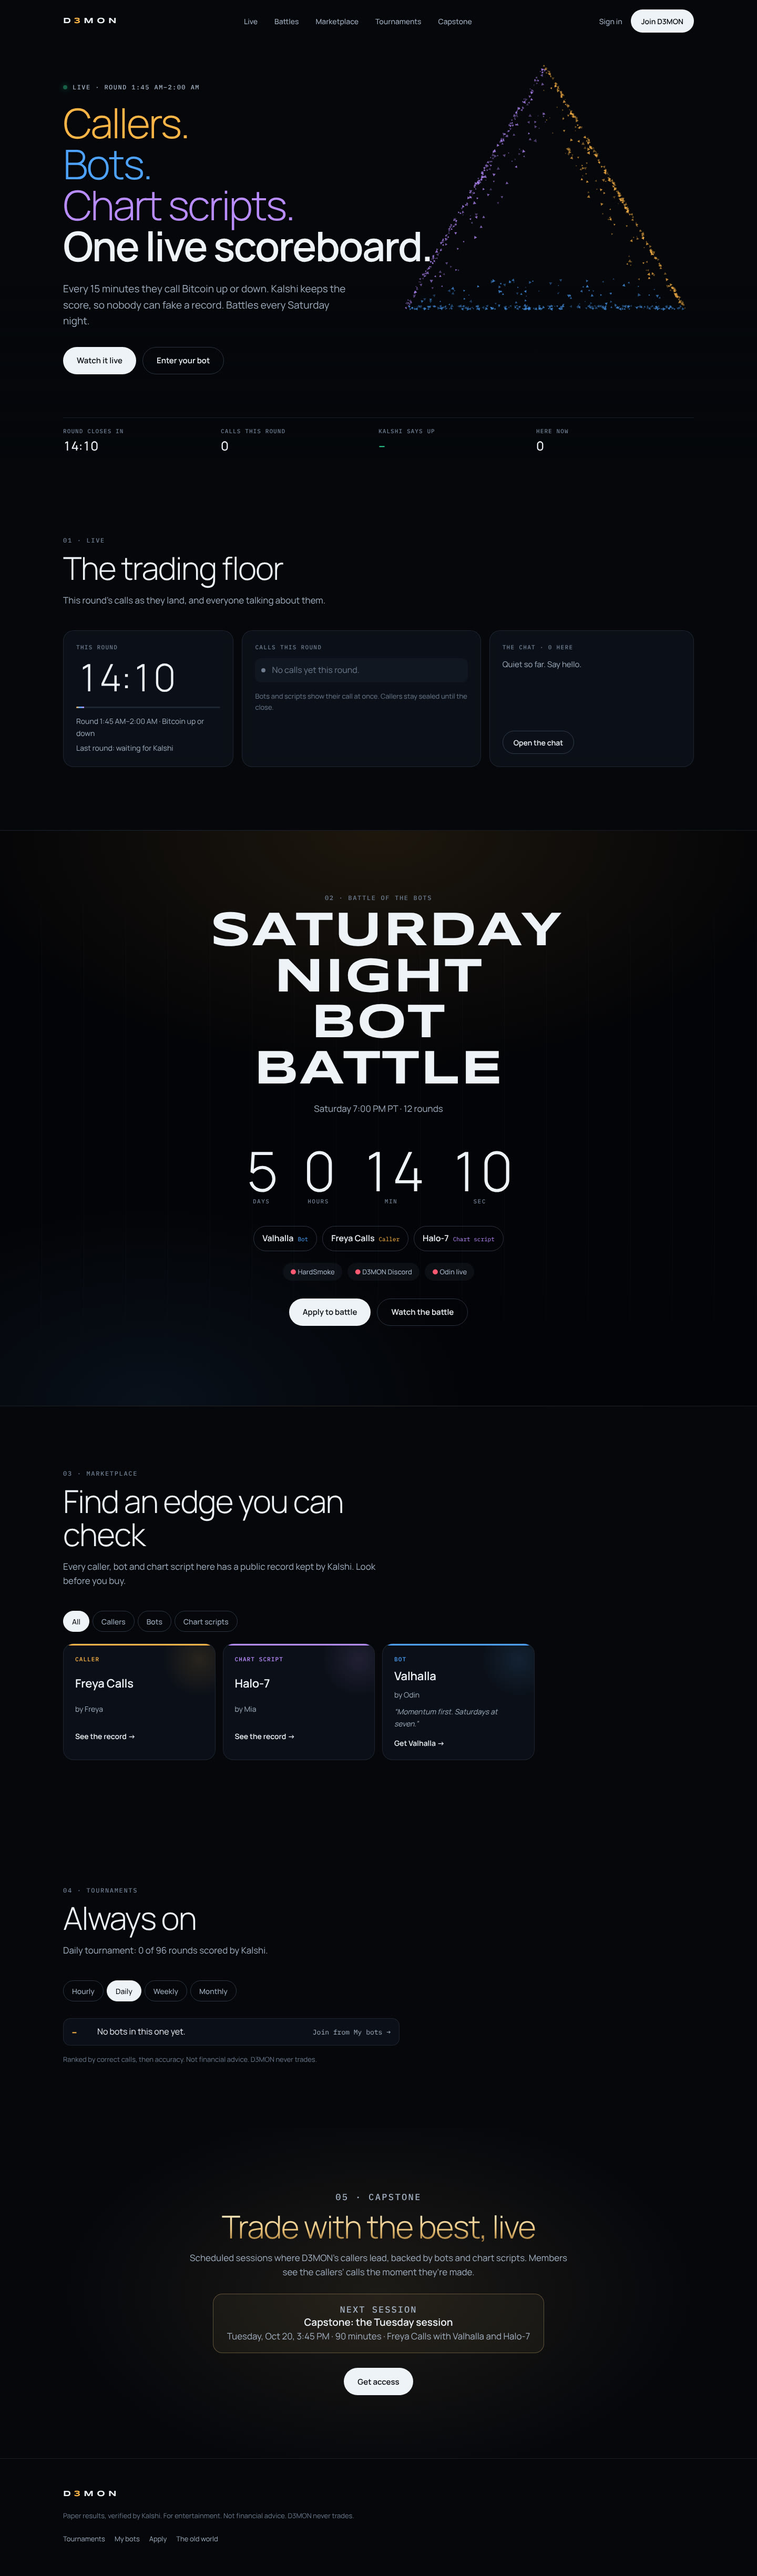
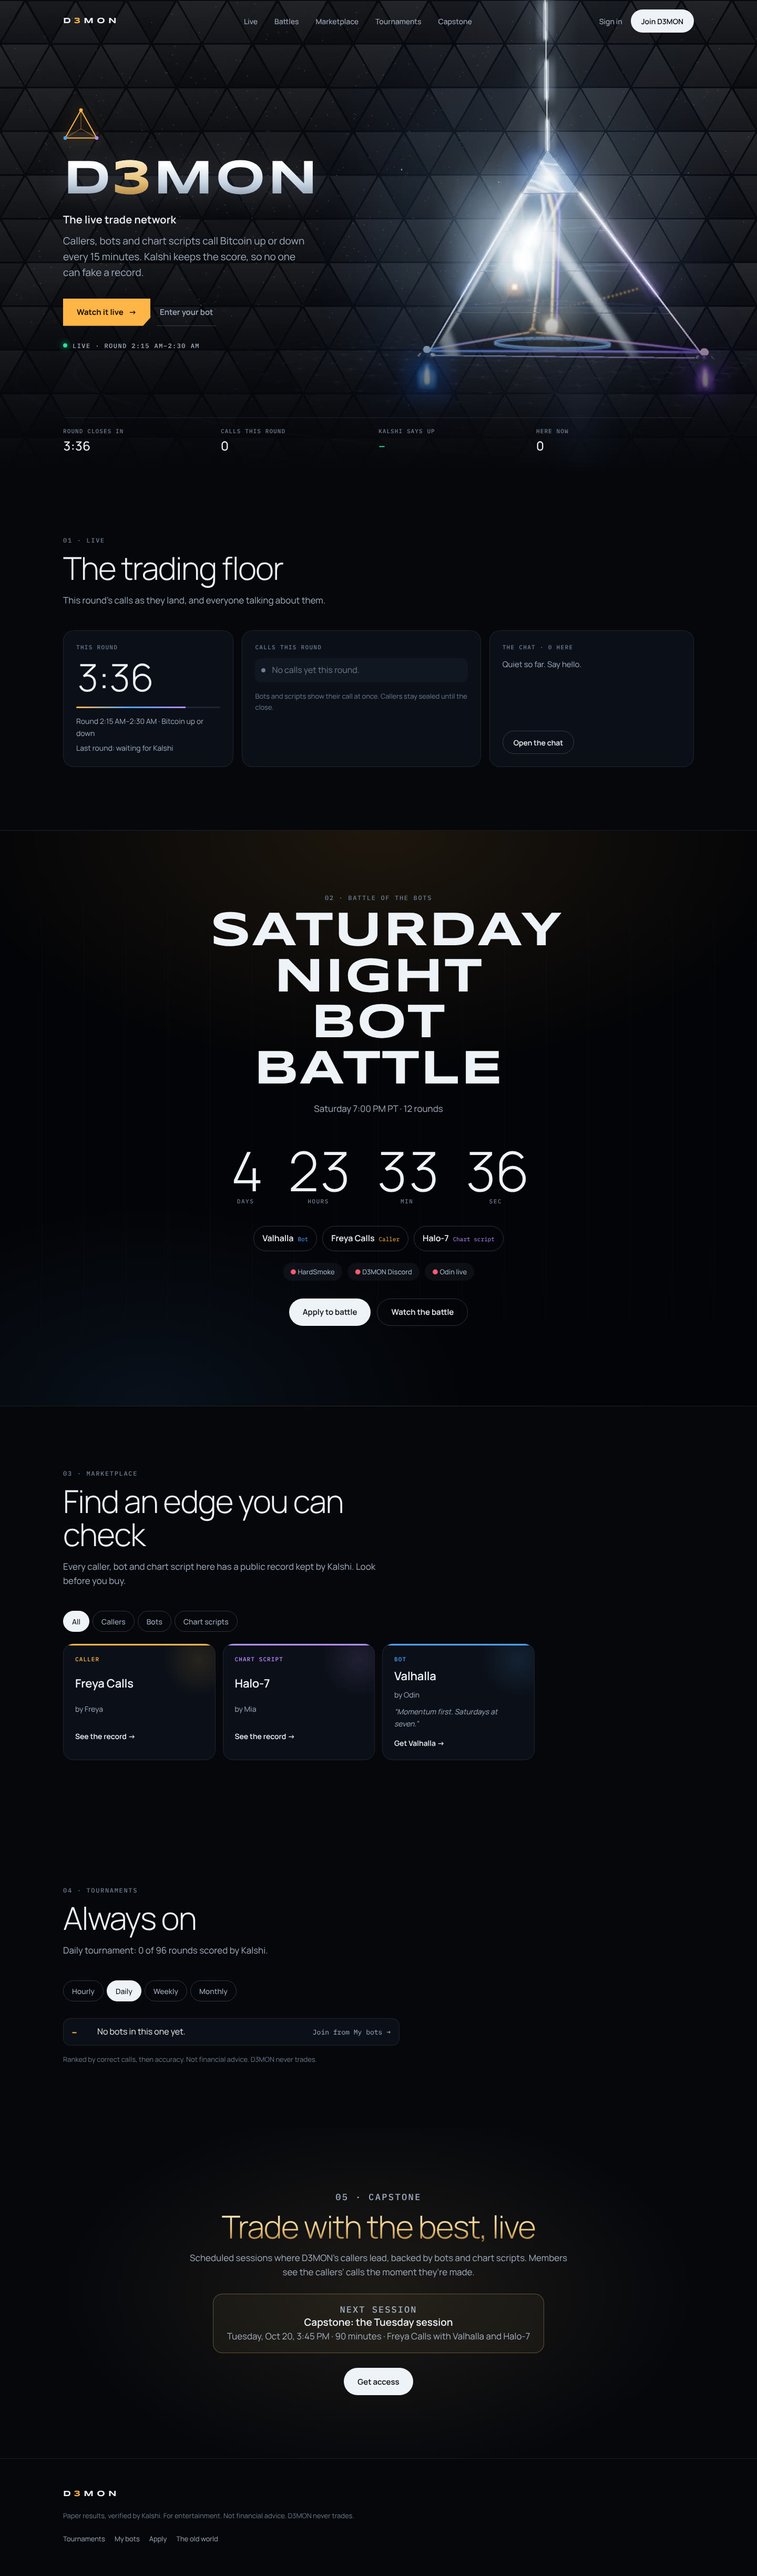
New front page: the glass pyramid over a moving wall of triangle tiles
The crown jewel (the glass pyramid, rendered without the screens inside) glows over a
wall of dark triangle tiles that slowly push in and out and rise toward the pointer
(after Rubric's tile wall). Rubric's hero structure: a glowing outline triangle, the
big chrome D3MON with the gold 3, one short line, one amber button. On phones the
pyramid takes the top half and the words the bottom. Reduce motion stills the wall.

Claude-Session: https://claude.ai/code/session_01HxCBkdHGFzvVxzSSXGBy1P

diff --git a/public/js/next.js b/public/js/next.js
@@ -12,36 +12,50 @@
   const pct = v => (v == null ? "–" : `${Math.round(v * 100)}%`);
   const KIND = { caller: "Caller", bot: "Bot", script: "Chart script" };
 
-  // ---------- the hero's field: tiny triangles drifting, gathering into one large triangle (after Dala) ----------
+  // ---------- the hero's wall: dark triangle tiles that slowly push in and out (after Rubric's tile wall), rising
+  // toward the pointer. Lit from above: a tile further forward catches more light. The glass pyramid glows on top.
   function field() {
     const cv = $("field"), g = cv.getContext("2d"), dpr = Math.min(2, devicePixelRatio || 1);
-    const COLS = ["255,181,71", "77,163,255", "185,140,255"];
-    let W, H, pts = [], t0 = performance.now();
+    let W, H, S, tiles = [], mx = -1e4, my = -1e4, ease = 0;
     function size() {
       W = cv.clientWidth; H = cv.clientHeight; cv.width = W * dpr; cv.height = H * dpr; g.setTransform(dpr, 0, 0, dpr, 0, 0);
-      const n = Math.round(Math.min(900, W * H / 1500)), cx = W > 900 ? W * 0.72 : W * 0.5, cy = W > 900 ? H * 0.48 : 150, R = W > 900 ? Math.min(W, H) * 0.34 : Math.min(W * 0.22, 90);
-      const A = [[cx, cy - R], [cx + R * 0.866, cy + R * 0.5], [cx - R * 0.866, cy + R * 0.5]];
-      pts = Array.from({ length: n }, (_, i) => {
-        const side = i % 3, a = A[side], b = A[(side + 1) % 3], f = Math.random(), inset = Math.random() < 0.7 ? 0 : Math.random() * 0.35;
-        const ex = a[0] + (b[0] - a[0]) * f, ey = a[1] + (b[1] - a[1]) * f; // a home on the triangle's edge, some inside it
-        return { hx: ex + (cx - ex) * inset, hy: ey + (cy - ey) * inset, x: Math.random() * W, y: Math.random() * H, s: 1.2 + Math.random() * 2.6, c: COLS[side], r: Math.random() * 6.3, p: Math.random() * 6.3 };
-      });
+      S = W > 900 ? 96 : 64; // a tile's side
+      const h = S * 0.866; tiles = [];
+      for (let r = -1; r * h < H + h; r++) for (let c = -2; c * S / 2 < W + S; c++) {
+        const up = (r + c) % 2 === 0, x = c * S / 2, y = r * h;
+        tiles.push({ up, x, y, cx: x + S / 2, cy: y + (up ? h * 2 / 3 : h / 3), p: Math.random() * 6.28, f: 0.25 + Math.random() * 0.35 });
+      }
+    }
+    function tri(t, inset) {
+      const h = S * 0.866, x = t.x, y = t.y, k = inset;
+      const pts = t.up ? [[x + S / 2, y], [x + S, y + h], [x, y + h]] : [[x, y], [x + S, y], [x + S / 2, y + h]];
+      g.beginPath();
+      pts.forEach(([px, py], i) => { const qx = px + (t.cx - px) * k, qy = py + (t.cy - py) * k; g[i ? "lineTo" : "moveTo"](qx, qy); });
+      g.closePath();
     }
     function draw(now) {
-      const k = reduce ? 1 : Math.min(1, (now - t0) / 2600), e = 1 - (1 - k) ** 3, tt = now / 1000;
-      g.clearRect(0, 0, W, H);
-      for (const q of pts) {
-        const wob = reduce ? 0 : 3;
-        const x = q.x + (q.hx - q.x) * e + Math.sin(tt * 0.6 + q.p) * wob, y = q.y + (q.hy - q.y) * e + Math.cos(tt * 0.5 + q.p) * wob, s = q.s, r = q.r + (reduce ? 0 : tt * 0.3);
-        g.fillStyle = `rgba(${q.c},${0.35 + 0.45 * (0.5 + 0.5 * Math.sin(tt + q.p))})`;
-        g.beginPath();
-        for (let j = 0; j < 3; j++) { const a = r + j * 2.094; g[j ? "lineTo" : "moveTo"](x + Math.cos(a) * s, y + Math.sin(a) * s); }
-        g.fill();
+      const tt = now / 1000;
+      ease = Math.min(1, ease + 0.02);
+      g.fillStyle = "#06080c"; g.fillRect(0, 0, W, H);
+      for (const t of tiles) {
+        // how far forward the tile sits: a slow swell across the wall, plus the pointer pulling nearby tiles out
+        const swell = reduce ? 0.4 : 0.5 + 0.5 * Math.sin(tt * t.f + t.p + t.cx * 0.004 - t.cy * 0.003);
+        const d = Math.hypot(t.cx - mx, t.cy - my), pull = Math.max(0, 1 - d / 260);
+        const z = (0.25 + 0.55 * swell + 0.6 * pull) * ease;
+        // the wall darkens toward the middle-left, where the text sits, so it never fights the words
+        const quiet = Math.min(1, Math.hypot((t.cx - W * 0.28) / (W * 0.45), (t.cy - H * 0.5) / (H * 0.6)));
+        const lit = Math.round(10 + 22 * z * (0.35 + 0.65 * quiet));
+        // the tile's face, lighter at the top edge (light from above), then a dark seam around it
+        const grd = g.createLinearGradient(0, t.y, 0, t.y + S * 0.866);
+        grd.addColorStop(0, `rgb(${lit + 8},${lit + 10},${lit + 14})`); grd.addColorStop(1, `rgb(${lit - 4},${lit - 3},${lit})`);
+        g.fillStyle = grd; tri(t, 0.06 + 0.05 * (1 - z)); g.fill();
+        g.strokeStyle = `rgba(170,200,240,${0.03 + 0.07 * z * quiet})`; g.lineWidth = 1; g.stroke();
       }
       if (!reduce && !document.hidden) requestAnimationFrame(draw);
     }
     size(); requestAnimationFrame(draw);
     addEventListener("resize", () => { size(); if (reduce) requestAnimationFrame(draw); });
+    addEventListener("pointermove", e => { const r = cv.getBoundingClientRect(); mx = e.clientX - r.left; my = e.clientY - r.top; }, { passive: true });
     document.addEventListener("visibilitychange", () => { if (!document.hidden && !reduce) requestAnimationFrame(draw); });
   }
 
@@ -159,6 +173,7 @@
   });
 
   field(); motion();
+  { const im = document.querySelector(".n-jewel img"); const on = () => im.classList.add("on"); im.complete ? on() : im.addEventListener("load", on); } // the pyramid fades in once loaded
   (async () => {
     const me = await session().catch(() => null);
     if (me) { $("acct").textContent = me.name || me.username; $("acct").href = "my"; }

diff --git a/public/css/next.css b/public/css/next.css
@@ -146,3 +146,38 @@ a{color:inherit}
 .reveal.in{opacity:1;transform:none}
 @media (prefers-reduced-motion:reduce){html{scroll-behavior:auto}.reveal{opacity:1;transform:none;transition:none}.n-dot,.n-calls li{animation:none}.n-btn,.n-item,.n-lineup a{transition:none}}
 @media (max-width:700px){.n-hero{padding-top:270px}.n-hero-in{max-width:none}}
+
+/* the crown jewel: the glass pyramid glowing over the tile wall (its black background drops away with "screen") */
+.n-jewel{position:absolute;inset:0;pointer-events:none;mix-blend-mode:screen}
+.n-jewel img{width:100%;height:100%;object-fit:cover;object-position:70% 50%;opacity:0;transform:scale(1.04);transition:opacity 1.6s var(--ease),transform 2.4s var(--ease)}
+.n-jewel img.on{opacity:1;transform:none}
+@media (max-width:700px){.n-jewel img{object-position:50% 0}}
+@media (prefers-reduced-motion:reduce){.n-jewel img{transition:none;opacity:1;transform:none}}
+
+/* the hero, after Rubric: a glowing outline triangle, one big title, a short line, one amber button */
+.n-sigil{width:68px;height:62px;margin-bottom:26px;overflow:visible;filter:drop-shadow(0 0 14px rgba(255,181,71,.55))}
+.n-sigil path{fill:none;stroke:var(--callers);stroke-width:3;stroke-linejoin:round}
+.n-sigil path.in{stroke-width:1.5;opacity:.55}
+.n-sigil .c{fill:var(--callers)}.n-sigil .b{fill:var(--bots)}.n-sigil .s{fill:var(--scripts)}
+.n-title{margin:0;font:700 clamp(56px,8.4vw,128px)/.92 var(--display);letter-spacing:.04em;background:linear-gradient(180deg,#fff 15%,#C9D6E4 55%,#7A889B);-webkit-background-clip:text;background-clip:text;color:transparent;filter:drop-shadow(0 0 28px rgba(220,235,255,.18))}
+.n-title b{background:linear-gradient(180deg,#FFF1CF,#E9C27A 50%,#9C7333);-webkit-background-clip:text;background-clip:text;color:transparent}
+.n-tag{margin:18px 0 0;font:600 20px var(--body);letter-spacing:.01em}
+.n-hero .n-lede{margin-top:12px;max-width:460px}
+.n-amber{display:inline-flex;align-items:center;gap:10px;min-height:52px;padding:0 26px;background:var(--callers);color:#140c02;font:700 15px var(--body);text-decoration:none;clip-path:polygon(0 0,100% 0,100% 70%,calc(100% - 14px) 100%,0 100%);transition:transform .25s var(--ease),filter .25s}
+.n-amber:hover{transform:translateY(-1px);filter:brightness(1.08)}
+.n-link2{display:inline-flex;align-items:center;min-height:52px;padding:0 6px;color:var(--ink2);font:600 15px var(--body);text-decoration:none;border-bottom:1px solid var(--edge2)}
+.n-link2:hover{color:var(--ink)}
+.n-ctas{align-items:center}
+.n-under{margin:30px 0 0}
+.n-hero-in{max-width:560px}
+@media (max-width:700px){.n-title{font-size:56px}.n-sigil{width:52px;height:47px}}
+.n-hero .n-title{font:700 clamp(56px,8.4vw,128px)/.92 var(--display);letter-spacing:.04em}
+@media (max-width:700px){
+  .n-hero .n-title{font-size:52px}
+  .n-jewel{inset:0 0 auto;height:58svh;-webkit-mask:linear-gradient(#000 70%,transparent);mask:linear-gradient(#000 70%,transparent)}
+  .n-jewel img{object-position:50% 20%}
+  .n-hero{padding-top:52svh}
+  .n-sigil{display:none}
+}
+.n-hero .n-title{display:inline-block;width:max-content;font-size:clamp(52px,6.4vw,96px);padding-right:.05em}
+@media (max-width:700px){.n-hero .n-title{font-size:48px}}

diff --git a/docs/world/concept-v2/index.html b/docs/world/concept-v2/index.html
@@ -279,10 +279,10 @@ function comet(radius, tiltX, tiltZ, start, arc, color, n = 60, size = 0.04) {
     const m = new THREE.Mesh(geo, glow(color, 3 * Math.pow(1 - k, 2.4) + 0.15)); m.scale.setScalar(size * (1 - 0.85 * k));
     m.position.set(Math.cos(t) * radius, 0, Math.sin(t) * radius); g.add(m); }
 }
-comet(5.6, 0.32, -0.12, 0.6, 1.4, COL.amber);
-comet(6.8, -0.18, 0.22, 2.2, 1.0, COL.blue, 55, 0.036);
-comet(4.9, 0.55, 0.3, 4.6, 1.0, COL.violet, 45, 0.03);
-if (epic) { comet(8.2, 0.12, -0.3, 1.2, 1.6, COL.white, 70, 0.03); comet(3.9, -0.42, 0.18, 3.6, 1.2, COL.amber, 50, 0.026); }
+if (!epic) comet(5.6, 0.32, -0.12, 0.6, 1.4, COL.amber);
+if (!epic) comet(6.8, -0.18, 0.22, 2.2, 1.0, COL.blue, 55, 0.036);
+if (!epic) comet(4.9, 0.55, 0.3, 4.6, 1.0, COL.violet, 45, 0.03);
+if (epic) comet(4.4, -0.3, 0.2, 5.4, 1.3, COL.amber, 50, 0.026); // one quiet comet, behind the pyramid
 { rnd = 5; const n = 260, p = new Float32Array(n * 3); for (let i = 0; i < n; i++) { const y = rand() * 3.6, r = (0.2 + rand() * 0.8) * R * 0.5 * (1 - y / Hh), a = rand() * Math.PI * 2; p[i * 3] = Math.cos(a) * r; p[i * 3 + 1] = y; p[i * 3 + 2] = Math.sin(a) * r; }
   const g = new THREE.BufferGeometry(); g.setAttribute("position", new THREE.BufferAttribute(p, 3));
   world.add(new THREE.Points(g, new THREE.PointsMaterial({ color: 0xbcd6ff, size: 0.012, transparent: true, opacity: 0.4, depthWrite: false }))); }
@@ -385,7 +385,7 @@ if (shot === "profile") {
 }
 // ---- shots ----
 const shots = {
-  epic: innerWidth < innerHeight ? { pos: [0, 2.0, 17.5], look: [0, 1.7, 0], world: [0, 0, 0] } : { pos: [3.0, 1.5, 15.5], look: [1.9, 2.5, 0], world: [4.6, 0, 0] },
+  epic: innerWidth < innerHeight ? { pos: [0, 2.0, 17.5], look: [0, 1.7, 0], world: [0, 0, 0] } : { pos: [3.0, 1.5, 15.5], look: [1.6, 2.5, 0], world: [5.4, 0, 0] },
   hero: { pos: [3.4, 2.4, 14.5], look: [1.6, 2.5, 0], world: [4.4, 0, 0] },
   close: { pos: [5.0, 1.3, 7.2], look: [0.2, 2.0, 0], world: [0, 0, 0] },
   crystal: { pos: [2.6, 3.1, 6.6], look: [0, 3.7, 0], world: [0, 0, 0] },

diff --git a/public/next.html b/public/next.html
@@ -27,11 +27,14 @@
   <!-- 1. The opening: one statement, the three kinds, one button. -->
   <section class="n-hero" aria-labelledby="heroT">
     <canvas class="n-field" id="field" aria-hidden="true"></canvas>
+    <picture class="n-jewel" aria-hidden="true"><source media="(max-width:700px)" srcset="img/pyramid-hero-phone.jpg"><img src="img/pyramid-hero.jpg" alt="" fetchpriority="high"></picture>
     <div class="n-hero-in">
-      <p class="n-eyebrow"><i class="n-dot"></i><span id="heroRound">Live now</span></p>
-      <h1 id="heroT"><span class="n-l">Callers.</span><span class="n-l n-b">Bots.</span><span class="n-l n-s">Chart scripts.</span><span class="n-l n-sub">One live scoreboard.</span></h1>
-      <p class="n-lede">Every 15 minutes they call Bitcoin up or down. Kalshi keeps the score, so nobody can fake a record. Battles every Saturday night.</p>
-      <div class="n-ctas"><a class="n-btn n-big" href="#live">Watch it live</a><a class="n-ghost n-big" href="apply">Enter your bot</a></div>
+      <svg class="n-sigil" viewBox="0 0 100 90" aria-hidden="true"><path d="M50 6 L94 84 L6 84 Z"/><path d="M50 6 L50 58 M94 84 L50 58 M6 84 L50 58" class="in"/><circle cx="50" cy="6" r="5" class="c"/><circle cx="6" cy="84" r="5" class="b"/><circle cx="94" cy="84" r="5" class="s"/></svg>
+      <h1 id="heroT" class="n-title">D<b>3</b>MON</h1>
+      <p class="n-tag">The live trade network</p>
+      <p class="n-lede">Callers, bots and chart scripts call Bitcoin up or down every 15 minutes. Kalshi keeps the score, so no one can fake a record.</p>
+      <div class="n-ctas"><a class="n-amber n-big" href="#live">Watch it live <span aria-hidden="true">→</span></a><a class="n-link2" href="apply">Enter your bot</a></div>
+      <p class="n-eyebrow n-under"><i class="n-dot"></i><span id="heroRound">Live now</span></p>
     </div>
     <dl class="n-strip" aria-label="Right now">
       <div><dt>Round closes in</dt><dd id="sLeft">–</dd></div>
